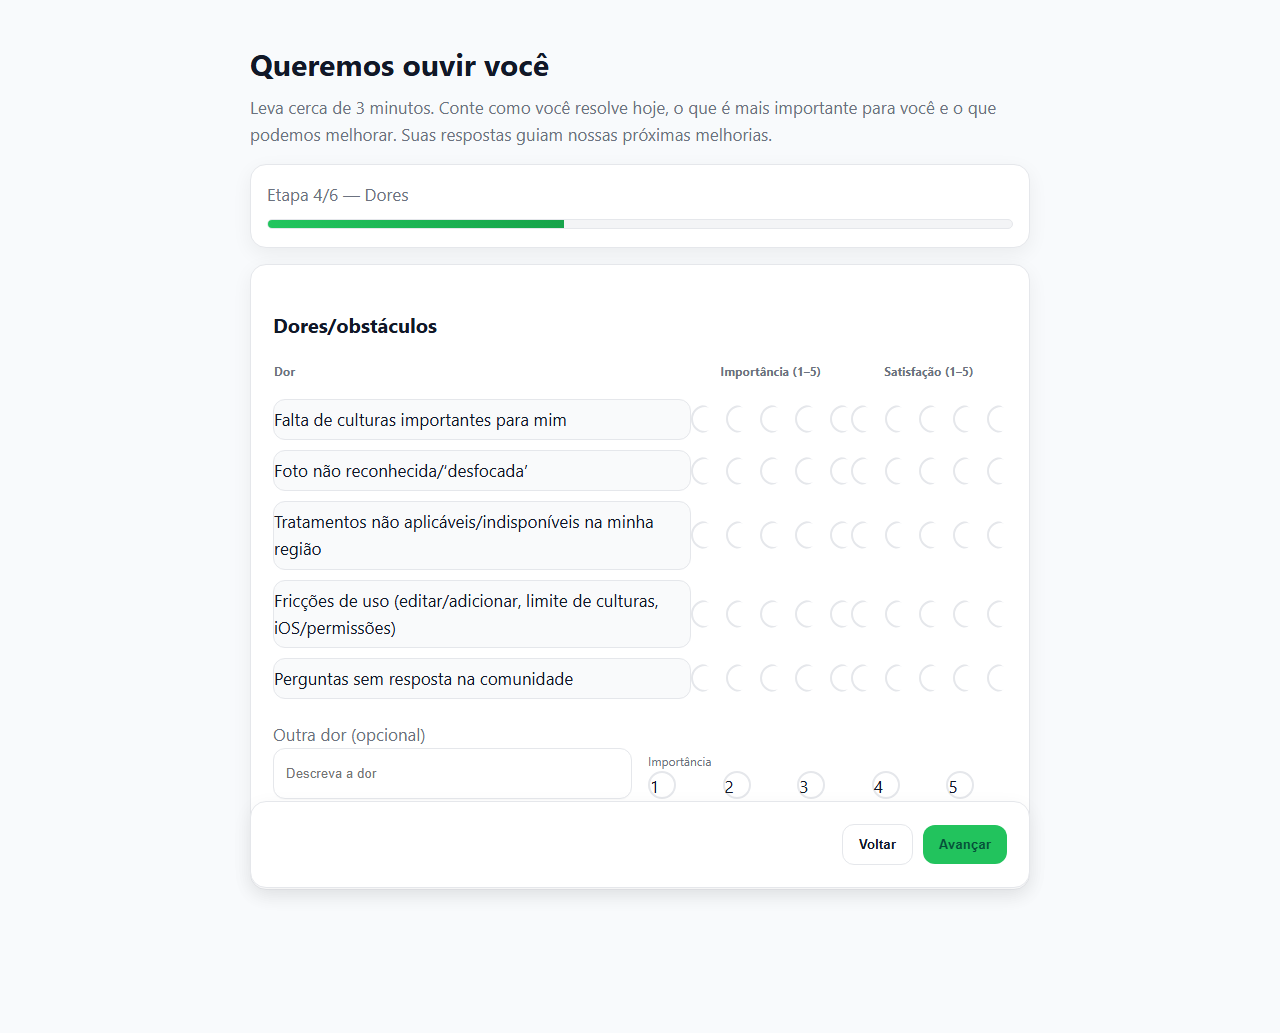
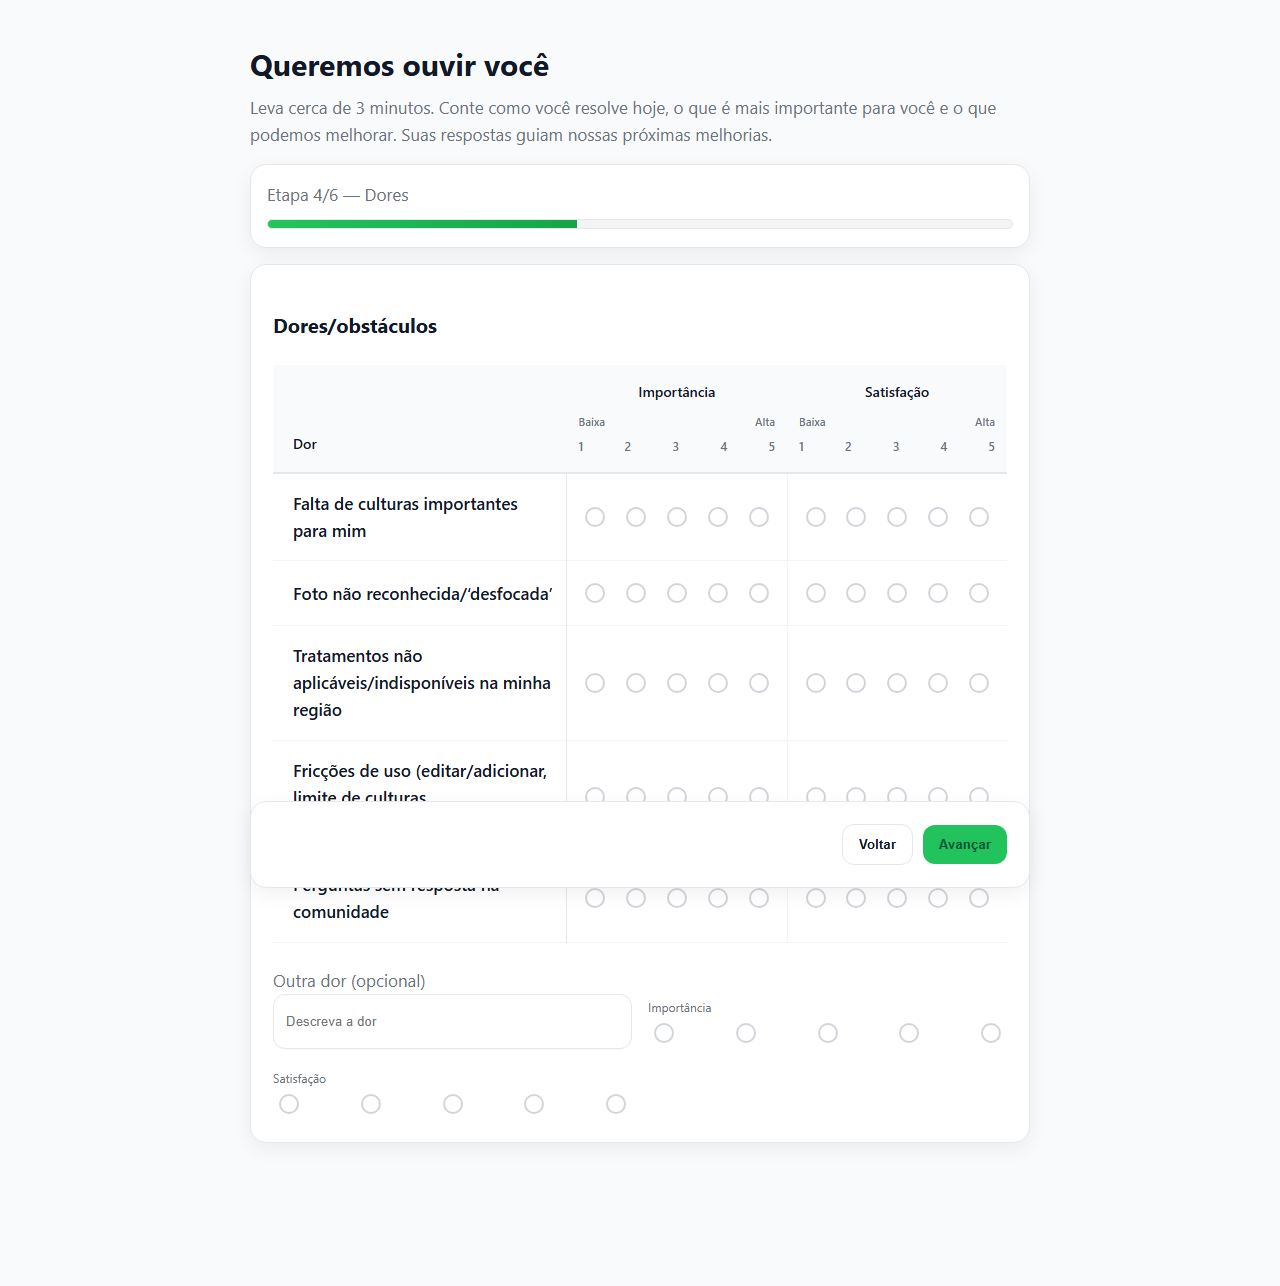
init

diff --git a/playwright-report/index.html b/playwright-report/index.html
@@ -74,4 +74,4 @@ Error generating stack: `+u.message+`
   </body>
 </html>
 <script>
[2 lines of base64/hex data omitted]

diff --git a/survey-jtbd.html b/survey-jtbd.html
@@ -70,7 +70,7 @@
     
     .radio-group{display:flex;justify-content:space-between;align-items:center;min-width:180px}
     .radio-group label{position:relative;cursor:pointer;display:flex;align-items:center;justify-content:center;width:32px;height:32px}
-    .radio-group input[type="radio"]{position:absolute;opacity:0;cursor:pointer}
+    .radio-group input[type="radio"]{position:absolute;opacity:0;cursor:pointer;pointer-events:none}
     .radio-group .checkmark{
       height:20px;width:20px;background-color:#ffffff;border:2px solid #d1d5db;border-radius:50%;
       transition:all 0.2s ease;display:flex;align-items:center;justify-content:center
@@ -88,8 +88,9 @@
     .progressbar .bar{height:100%;width:0;background:linear-gradient(90deg,var(--brand),#16a34a);transition:width .25s ease}
     .other-wrap{display:none;margin-top:8px}
     .footer-nav{display:flex;gap:10px;justify-content:flex-end;align-items:center;position:sticky;bottom:12px;z-index:5}
-    .odi-scales .na span{background:#f3f4f6;color:#374151}
-    .scale-numbers{display:grid;grid-template-columns:repeat(5,1fr);gap:14px;margin-top:4px;color:var(--muted);font-size:12px}
+    .odi-item{padding:12px 14px;border:1px solid var(--line);border-radius:12px;background:#f9fafb}
+    .row .odi-item{cursor:pointer}
+    .row .odi-item label{display:flex;align-items:center;gap:10px;width:100%}
   </style>
 </head>
 <body>
@@ -178,7 +179,23 @@
         <h2>Dores/obstáculos</h2>
         <table class="odi-grid">
           <thead>
-            <tr><th style="text-align:left">Dor</th><th>Importância (1–5)</th><th>Satisfação (1–5)</th></tr>
+            <tr>
+              <th>Dor</th>
+              <th>
+                <div class="scale-header">
+                  <span>Importância</span>
+                  <div class="scale-labels"><span>Baixa</span><span>Alta</span></div>
+                  <div class="scale-numbers"><span>1</span><span>2</span><span>3</span><span>4</span><span>5</span></div>
+                </div>
+              </th>
+              <th>
+                <div class="scale-header">
+                  <span>Satisfação</span>
+                  <div class="scale-labels"><span>Baixa</span><span>Alta</span></div>
+                  <div class="scale-numbers"><span>1</span><span>2</span><span>3</span><span>4</span><span>5</span></div>
+                </div>
+              </th>
+            </tr>
           </thead>
           <tbody id="odi-pains"></tbody>
         </table>
@@ -203,9 +220,25 @@
         <h2>Tarefas do dia a dia</h2>
         <table class="odi-grid">
           <thead>
-            <tr><th style="text-align:left">Tarefa</th><th>Importância (1–5)</th><th>Satisfação (1–5)</th></tr>
+            <tr>
+              <th>Tarefa</th>
+              <th>
+                <div class="scale-header">
+                  <span>Importância</span>
+                  <div class="scale-labels"><span>Baixa</span><span>Alta</span></div>
+                  <div class="scale-numbers"><span>1</span><span>2</span><span>3</span><span>4</span><span>5</span></div>
+                </div>
+              </th>
+              <th>
+                <div class="scale-header">
+                  <span>Satisfação</span>
+                  <div class="scale-labels"><span>Baixa</span><span>Alta</span></div>
+                  <div class="scale-numbers"><span>1</span><span>2</span><span>3</span><span>4</span><span>5</span></div>
+                </div>
+              </th>
+            </tr>
           </thead>
-        <tbody id="odi-jobs"></tbody>
+          <tbody id="odi-jobs"></tbody>
         </table>
         <div class="other-wrap" id="jobs-extra-wrap" style="display:block;margin-top:12px">
           <label class="muted">Outra tarefa (opcional)</label>
@@ -296,15 +329,25 @@
         const nameImp = `${key}-imp-${i}`;
         const nameSat = `${key}-sat-${i}`;
         tr.innerHTML = `
-          <td class="odi-item">${txt}</td>
+          <td>${txt}</td>
           <td>
-            <div class="odi-scales">
-              ${[1,2,3,4,5].map(v=>`<label><input type=\"radio\" name=\"${nameImp}\" value=\"${v}\"><span></span></label>`).join('')}
+            <div class="radio-group">
+              ${[1,2,3,4,5].map(v=>`
+                <label>
+                  <input type="radio" name="${nameImp}" value="${v}">
+                  <span class="checkmark"></span>
+                </label>
+              `).join('')}
             </div>
           </td>
           <td>
-            <div class="odi-scales">
-              ${[1,2,3,4,5].map(v=>`<label><input type=\"radio\" name=\"${nameSat}\" value=\"${v}\"><span></span></label>`).join('')}
+            <div class="radio-group">
+              ${[1,2,3,4,5].map(v=>`
+                <label>
+                  <input type="radio" name="${nameSat}" value="${v}">
+                  <span class="checkmark"></span>
+                </label>
+              `).join('')}
             </div>
           </td>`;
         tbody.appendChild(tr);
@@ -313,7 +356,12 @@
 
     function renderExtraScales(containerId){
       const el = document.getElementById(containerId);
-      el.innerHTML = [1,2,3,4,5].map(v=>`<label><input type=\"radio\" value=\"${v}\"><span>${v}</span></label>`).join('');
+      el.innerHTML = `<div class="radio-group">${[1,2,3,4,5].map(v=>`
+        <label>
+          <input type="radio" value="${v}">
+          <span class="checkmark"></span>
+        </label>
+      `).join('')}</div>`;
     }
 
     renderOdiRows('odi-gains','gains',GAINS);
@@ -430,4 +478,11 @@
         if(!res.ok) throw new Error('HTTP '+res.status);
         msg.textContent = 'Enviado com sucesso ✔';
         msg.className = 'hint';
-      }catch(err){ msg.textContent = 'Falha ao env
+      }catch(err){ msg.textContent = 'Falha ao enviar. Verifique o endpoint e tente novamente.'; }
+    });
+
+    // Init (começa direto)
+    showStep(0);
+  </script>
+</body>
+</html>

diff --git a/tests/ui.spec.ts b/tests/ui.spec.ts
@@ -14,11 +14,11 @@ test.describe('Survey UI basics', () => {
     await expect(page.getByText('Ganhos desejados')).toBeVisible();
 
     // Click Importance = 4 for first row via the label (not the radio itself)
-    await page.locator('#odi-gains tr:nth-of-type(1) td:nth-of-type(2) .odi-scales label:nth-of-type(4) span').click();
+    await page.locator('#odi-gains tr:nth-of-type(1) td:nth-of-type(2) .radio-group label:nth-of-type(4) .checkmark').click();
     await expect(page.locator('input[name="gains-imp-0"][value="4"]')).toBeChecked();
 
     // Click Satisfaction = 5 for first row
-    await page.locator('#odi-gains tr:nth-of-type(1) td:nth-of-type(3) .odi-scales label:nth-of-type(5) span').click();
+    await page.locator('#odi-gains tr:nth-of-type(1) td:nth-of-type(3) .radio-group label:nth-of-type(5) .checkmark').click();
     await expect(page.locator('input[name="gains-sat-0"][value="5"]')).toBeChecked();
 
     // Progress bar should advance when navigating
